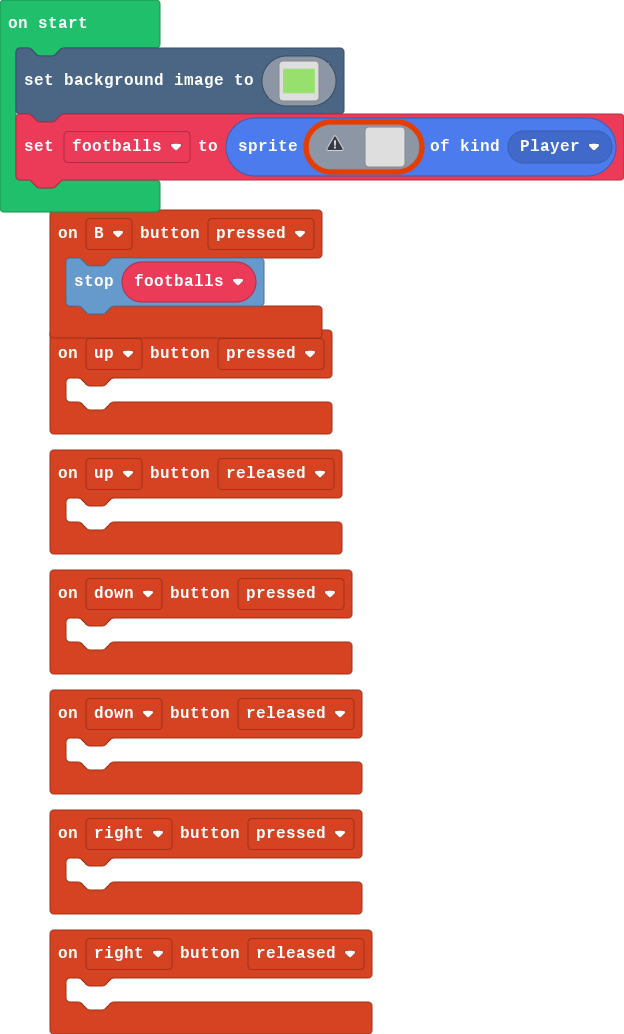
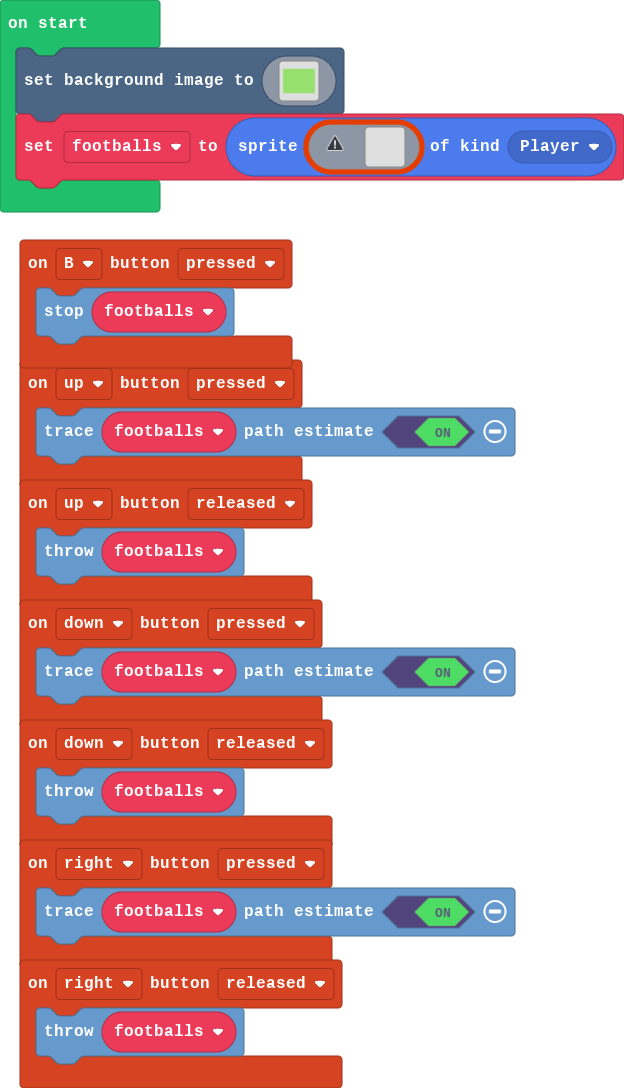
Update main.blocks, main.ts

diff --git a/main.ts b/main.ts
@@ -1,23 +1,23 @@
 controller.up.onEvent(ControllerButtonEvent.Pressed, function () {
-	
+    footballs.setTrace(true)
 })
 controller.B.onEvent(ControllerButtonEvent.Pressed, function () {
     footballs.stopDart()
 })
 controller.down.onEvent(ControllerButtonEvent.Released, function () {
-	
+    footballs.throwDart()
 })
 controller.right.onEvent(ControllerButtonEvent.Released, function () {
-	
+    footballs.throwDart()
 })
 controller.right.onEvent(ControllerButtonEvent.Pressed, function () {
-	
+    footballs.setTrace(true)
 })
 controller.up.onEvent(ControllerButtonEvent.Released, function () {
-	
+    footballs.throwDart()
 })
 controller.down.onEvent(ControllerButtonEvent.Pressed, function () {
-	
+    footballs.setTrace(true)
 })
 let footballs: Dart = null
 scene.setBackgroundImage(img`
